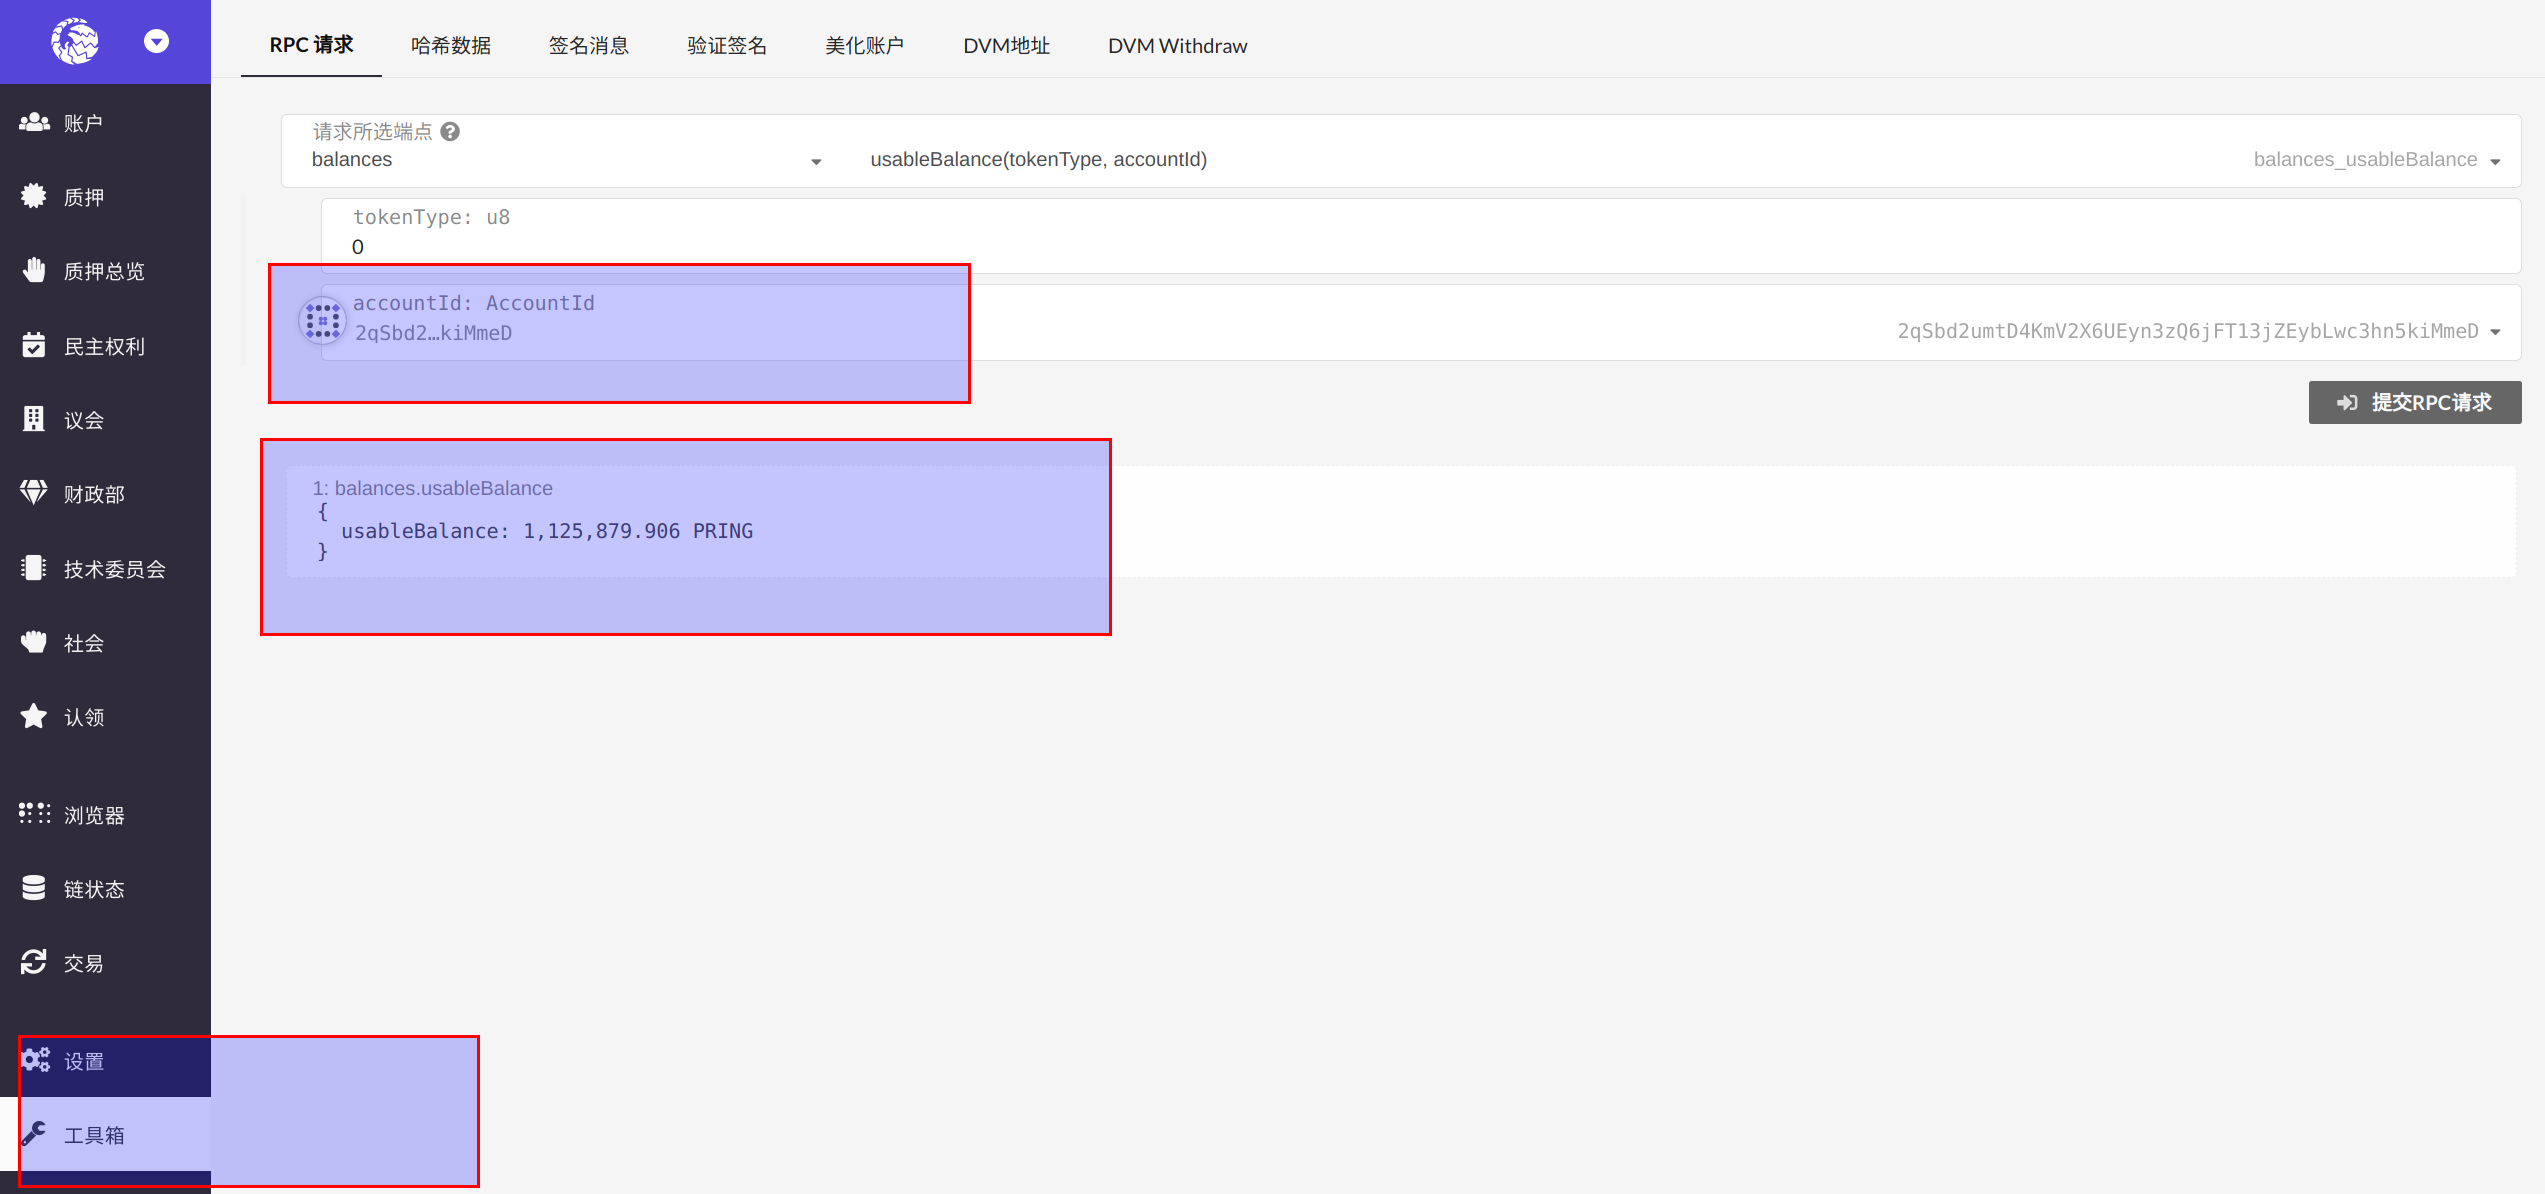
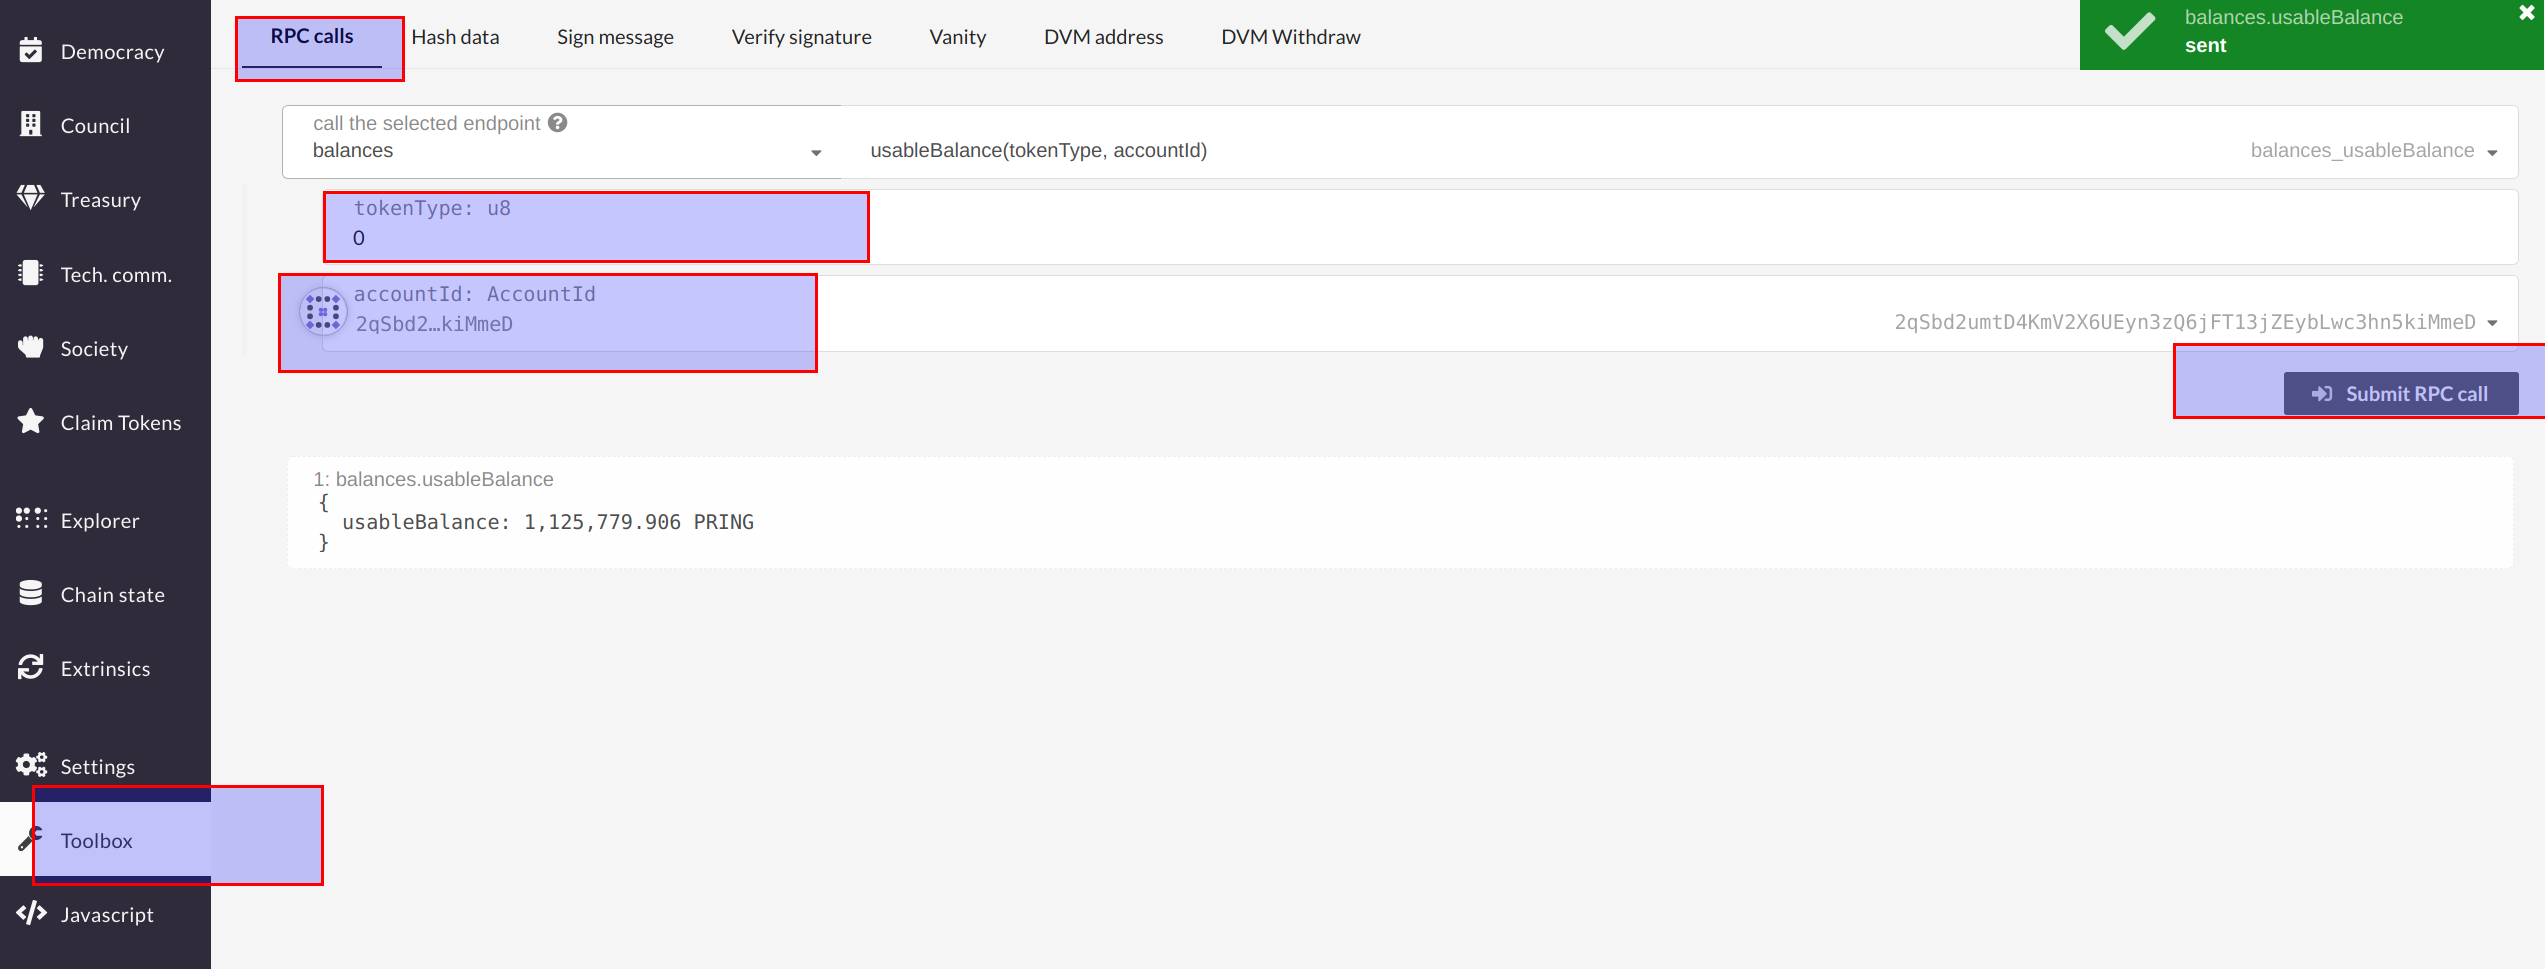
Add dvm-apps(en)

diff --git a/docs/dvm-apps.md b/docs/dvm-apps.md
@@ -3,3 +3,20 @@ id: dvm-apps
 title: Apps
 sidebar_label: Apps
 ---
+
+As the DVM account corresponds to the Substrate account, the DVM account balance can be checked at [Web Apps](https://apps.darwinia.network/#/account).
+
+## Address Conversion
+
+The way to generate the corresponding Substrate account address based on the DVM account address. See [address conversion](dvm-address).
+
+For example, the DVM account address `0x6Be02d1d3665660d22FF9624b7BE0551ee1Ac91b` corresponds to the Substrate account address `2qSbd2umtD4KmV2X6UEyn3zQ6jFT13jZEybLwc3hn5kiMmeD`.
+
+## Query Balance
+
+Click on `Toolbox` > `RPC Requests` > `balances` and enter:
+    
+- accountId： Substrate account id
+- tokentype： 0 for RING balance, 1 for KTON balance
+
+![dvm query balance](assets/dvm/dvm-apps-1.png)
